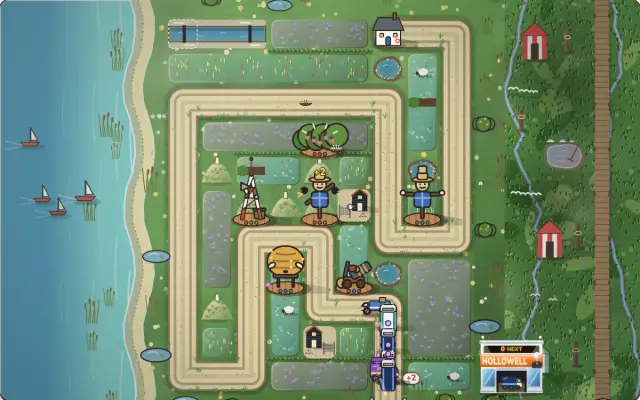
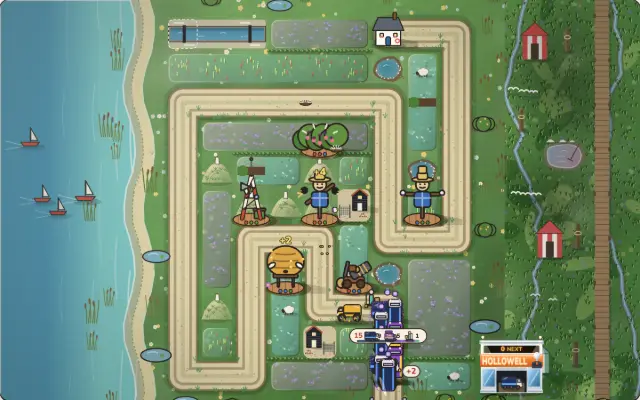
447 slice 4: Hedgerow 2D: a faint dotted line runs from Cath to the plot her tip means (stopping at its ring), so the ghost reads as her pointing there; key art re-shot; field, cath2d and coach-tap pass
Claude-Session: https://claude.ai/code/session_01SimvMN1RHBGCWN7Eo7MzhN

diff --git a/games/hedgerow/src/render.ts b/games/hedgerow/src/render.ts
@@ -841,6 +841,25 @@ export class Renderer {
       const cy = Y(this.coach.row + 0.5);
       const pulse = this.reducedMotion ? 0.5 : (Math.sin(t * 4) + 1) / 2;
       ctx.save();
+      // Plan item 447: a faint dotted line from Cath to the plot she means, so her tip reads as her pointing there
+      // (it stops at the ring; none when she stands on the plot itself).
+      const hx = X(game.hero.x);
+      const hy = Y(game.hero.y - 0.45);
+      const len = Math.hypot(cx - hx, cy - hy);
+      if (len > s * 0.9) {
+        const ex = cx - ((cx - hx) / len) * s * 0.52;
+        const ey = cy - ((cy - hy) / len) * s * 0.52;
+        ctx.setLineDash([s * 0.05, s * 0.11]);
+        ctx.lineDashOffset = this.reducedMotion ? 0 : -t * s * 0.3;
+        ctx.lineCap = "round";
+        ctx.lineWidth = Math.max(2, s * 0.045);
+        ctx.strokeStyle = `rgba(255, 236, 160, ${0.45 + pulse * 0.2})`;
+        ctx.beginPath();
+        ctx.moveTo(hx, hy);
+        ctx.lineTo(ex, ey);
+        ctx.stroke();
+        ctx.setLineDash([]);
+      }
       ctx.globalAlpha = 0.42;
       drawTower(ctx, { kind: this.coach.kind, tier: 1, spec: null, fired: 9, dazed: false, still: true }, cx, cy, s, 0);
       ctx.globalAlpha = 1;
